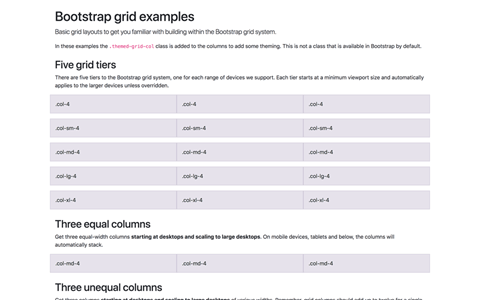
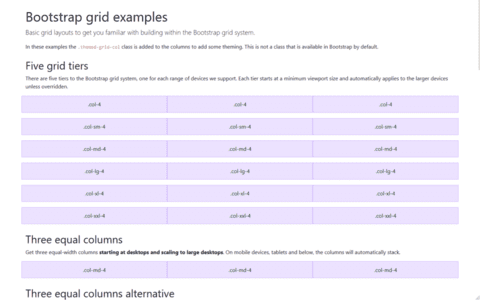
Update grid example

diff --git a/site/content/docs/5.3/examples/grid/grid.css b/site/content/docs/5.3/examples/grid/grid.css
@@ -1,13 +1,13 @@
 .themed-grid-col {
   padding-top: .75rem;
   padding-bottom: .75rem;
-  background-color: rgba(86, 61, 124, .15);
-  border: 1px solid rgba(86, 61, 124, .2);
+  background-color: rgba(112.520718, 44.062154, 249.437846, .15);
+  border: 1px solid rgba(112.520718, 44.062154, 249.437846, .3);
 }
 
 .themed-container {
   padding: .75rem;
   margin-bottom: 1.5rem;
-  background-color: rgba(0, 123, 255, .15);
-  border: 1px solid rgba(0, 123, 255, .2);
+  background-color: rgba(112.520718, 44.062154, 249.437846, .15);
+  border: 1px solid rgba(112.520718, 44.062154, 249.437846, .3);
 }